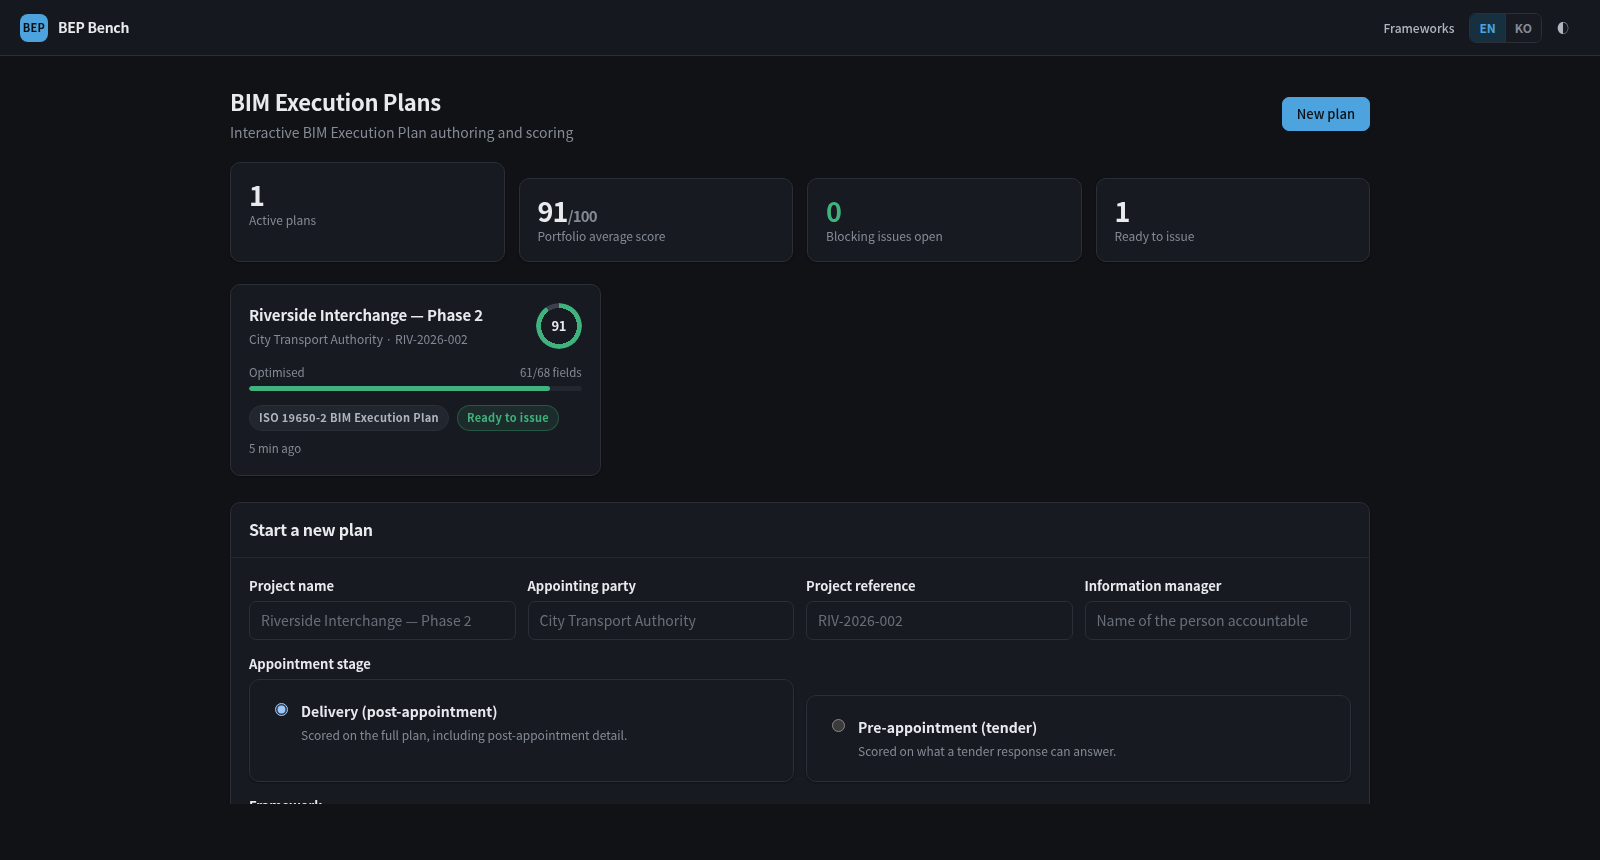
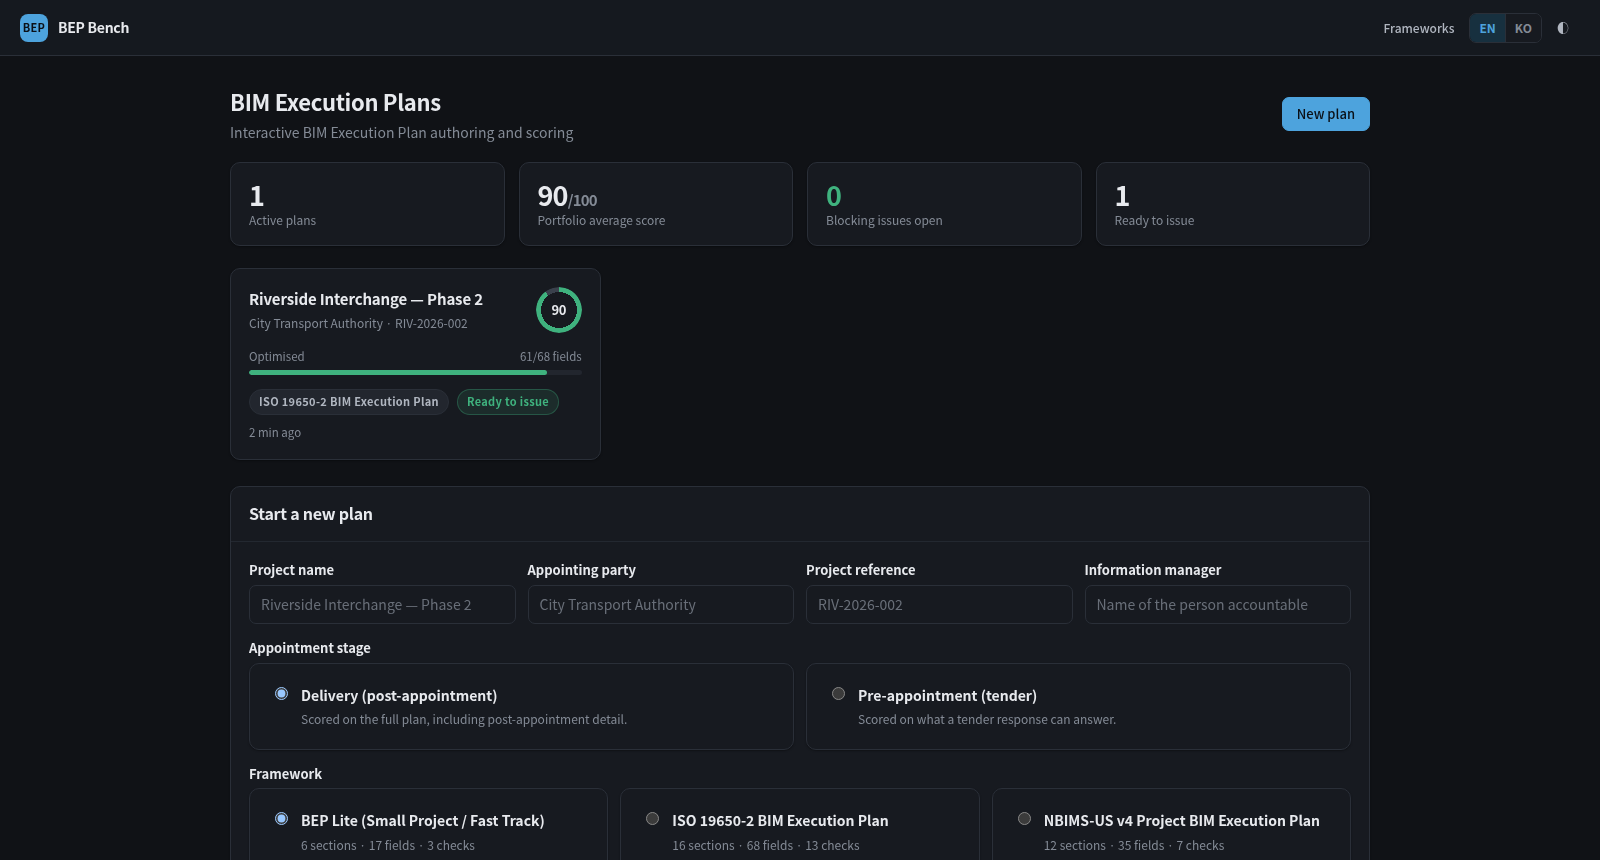
Fix card stacking margin leaking into grid layouts
.card + .card spaces cards that stack in document flow. Inside a grid the
container's own `gap` does that, and the extra margin made the first card of
each row 16px taller than its neighbours, since it alone has no preceding
sibling to carry the margin — visible on the dashboard stat row.

Scoped the margin away from grid and flex children, with a test that fails if
a new grid container holding cards is added without covering it.

diff --git a/bepkit/web/static/css/app.css b/bepkit/web/static/css/app.css
@@ -148,6 +148,11 @@ hr { border: 0; border-top: 1px solid var(--line); margin: 20px 0; }
 }
 .card.pad { padding: 20px; }
 .card + .card { margin-top: 16px; }
+/* Grid and flex containers already space their children with `gap`. Leaving the
+   stacking margin on would add to it and, because the first child has no such
+   margin, stretch that one card taller than the rest of the row. */
+.hero > .card, .projects > .card, .grid2 > .card,
+[class*="grid"] > .card, .row > .card { margin-top: 0; }
 .card-head {
   display: flex; align-items: center; gap: 10px;
   padding: 14px 18px; border-bottom: 1px solid var(--line-2);

diff --git a/tests/test_static_assets.py b/tests/test_static_assets.py
@@ -121,3 +121,28 @@ def test_the_page_container_class_is_never_used_as_a_flex_modifier():
     css = (STATIC / "css" / "app.css").read_text(encoding="utf-8")
     assert ".row.rowwrap { flex-wrap: wrap;" in css
     assert ".row.wrap {" not in css
+
+
+def test_cards_in_a_grid_do_not_carry_the_stacking_margin():
+    """`.card + .card` spaces cards that stack in document flow.
+
+    Inside a grid the container's own `gap` does that job, and the extra margin
+    made the first card in each row 16px taller than its neighbours, because it
+    alone has no preceding sibling to take the margin.
+    """
+    import re
+
+    css = (STATIC / "css" / "app.css").read_text(encoding="utf-8")
+    assert ".card + .card { margin-top: 16px; }" in css
+    reset = re.search(r"^[^\n{]*> \.card[^{]*\{ margin-top: 0; \}", css, re.M)
+    assert reset, "grid children must have the stacking margin reset"
+
+    # every grid container that holds a card must be covered by that reset
+    holders = set()
+    for template in TEMPLATES.glob("*.html"):
+        markup = template.read_text(encoding="utf-8")
+        for container in ("hero", "projects", "grid2"):
+            if f'class="{container}"' in markup:
+                holders.add(container)
+    for container in holders:
+        assert f".{container} > .card" in css, container
